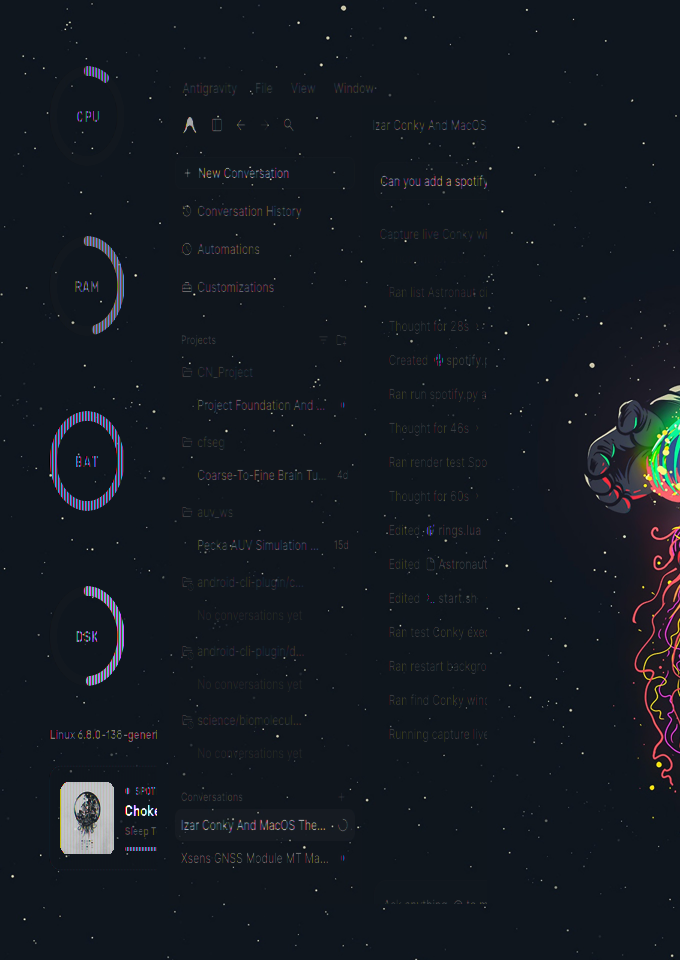
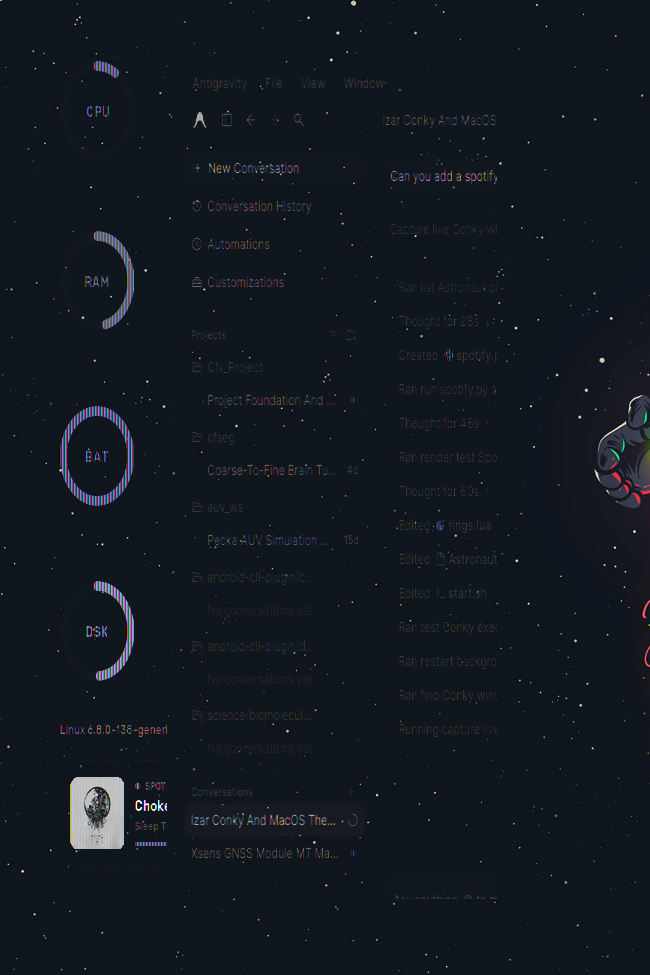
docs: replace preview images with high-resolution captures and remove all emojis

diff --git a/README.md b/README.md
@@ -1,4 +1,4 @@
-# 🌌 Astronaut Desktop for Ubuntu (GNOME 42+)
+# Astronaut Desktop for Ubuntu (GNOME 42+)
 
 A sleek, modern, dark aesthetic desktop configuration for Ubuntu featuring a custom subpixel Cairo-rendered Conky suite, a live MPRIS2 Spotify music player card, floating pill top bar, and right-side dock integration.
 
@@ -6,38 +6,38 @@ A sleek, modern, dark aesthetic desktop configuration for Ubuntu featuring a cus
 
 ---
 
-## ✨ Features
+## Features
 
 * **Subpixel Cairo Conky Suite**:
-  * 🕒 **Digital Clock & Calendar**: Retro `Dot Matrix` font with a vertical day of the week column.
-  * 📊 **4 Circular Hardware Rings**: CPU (Orange), RAM (Pink), Battery (Cyan), and Disk (Yellow) with mathematically centered labels.
-  * ⛅ **Weather Telemetry**: Live temperature, weather condition, humidity, and wind speed.
-  * 🌐 **Network Telemetry & Live Graph**: SSID, signal quality %, local IP, upload/download speeds, and an antialiased dual-bandwidth sparkline graph in Cairo.
-  * 🎵 **Spotify Music Player Card**:
+  * **Digital Clock and Calendar**: Retro `Dot Matrix` font with a vertical day of the week column.
+  * **Circular Hardware Rings**: CPU (Orange), RAM (Pink), Battery (Cyan), and Disk (Yellow) with mathematically centered labels.
+  * **Weather Telemetry**: Live temperature, weather condition, humidity, and wind speed.
+  * **Network Telemetry and Live Graph**: SSID, signal quality %, local IP, upload/download speeds, and an antialiased dual-bandwidth sparkline graph in Cairo.
+  * **Spotify Music Player Card**:
     * Direct MPRIS D-Bus bridge (sub-7ms query latency).
-    * Automated album art fetcher & rounded corner thumbnail caching.
-    * Dynamic state-based outline: **Vibrant Blue** when playing, **Subtle Gray** when paused or offline.
+    * Automated album art fetcher and rounded corner thumbnail caching.
+    * Dynamic state-based outline: **Vibrant Blue** (`#29B6F6`) when playing, **Subtle Gray** (`#666666`) when paused or offline.
     * Track title, artist, album, live progress bar, playhead glow, and elapsed/total timestamps.
     * Fallback vector soundwave logo when idle or offline.
-  * 🖥 **Bottom Telemetry Line**: Kernel version, CPU, RAM, Battery, and Disk percentages.
+  * **Bottom Telemetry Line**: Kernel version, CPU, RAM, Battery, and Disk percentages.
 
 * **GNOME Shell Customizations**:
-  * 🏝 **Floating Island Top Bar**: Transparent panel with floating rounded pill islands (`rgba(30, 32, 40, 0.75)` with subtle borders and shadows).
-  * 🚀 **Floating Dock on Right**: Centered floating pill on the right side of the screen with auto-hide/intellihide.
-  * 🛡 **Dock Anti-Clipping Fix**: Custom CSS padding and scrollview adjustments preventing hover highlight clipping on outermost apps.
-  * 🎨 **Theme & Icons**: Orchis-Dark shell theme paired with `Yaru-blue-dark` icon pack.
+  * **Floating Island Top Bar**: Transparent panel with floating rounded pill islands (`rgba(30, 32, 40, 0.75)` with subtle borders and shadows).
+  * **Floating Dock on Right**: Centered floating pill on the right side of the screen with auto-hide/intellihide.
+  * **Dock Anti-Clipping Fix**: Custom CSS padding and scrollview adjustments preventing hover highlight clipping on outermost apps.
+  * **Theme and Icons**: Orchis-Dark shell theme paired with `Yaru-blue-dark` icon pack.
 
 ---
 
-## 📸 Screenshots
+## Screenshots
 
-| Conky & Spotify Zoom | Spotify Dynamic Outline States |
+| Conky and Spotify Zoom | Spotify Dynamic Outline States |
 | :---: | :---: |
 | ![Conky Zoom](previews/conky-preview.png) | ![Spotify States](previews/spotify-states.png) |
 
 ---
 
-## 🚀 Quick Start (1-Command Install)
+## Quick Start (Automated Install)
 
 ### 1. Clone the repository
 ```bash
@@ -51,7 +51,7 @@ cd astronaut-desktop
 ./install.sh
 ```
 
-> [!TIP]
+> [!NOTE]
 > If you only want the Conky widget without changing your system theme or dock:
 > ```bash
 > ./install.sh --conky-only
@@ -59,36 +59,36 @@ cd astronaut-desktop
 
 ---
 
-## 📦 What the Installer Does
+## What the Installer Does
 
 1. **System Dependencies**: Automatically checks and installs `conky-all`, `gnome-shell-extensions`, `dconf-cli`, `playerctl`, `python3-pil`, `curl`, and `jq`.
 2. **Typography**: Installs `Dot Matrix` and `Rubik` fonts into `~/.local/share/fonts/` and refreshes `fc-cache`.
 3. **Conky Suite**: Deploys configurations and Lua scripts to `~/.config/conky/Astronaut/` and registers login autostart (`~/.config/autostart/`).
 4. **Desktop Wallpaper**: Copies `astronaut-jellyfish.jpg` to `~/Pictures/Wallpapers/` and activates it.
-5. **Theme & Shell Styles**: Installs `Orchis-Dark` and applies custom CSS rules for floating island pills and dock padding.
+5. **Theme and Shell Styles**: Installs `Orchis-Dark` and applies custom CSS rules for floating island pills and dock padding.
 6. **GNOME Preferences**: Configures dock position (`RIGHT`), auto-hide, dark preference, and window controls.
 
 ---
 
-## 📁 Repository Structure
+## Repository Structure
 
 ```text
 astronaut-desktop/
-├── conky/                          # Conky configuration & Lua scripts
+├── conky/                          # Conky configuration and Lua scripts
 │   ├── Astronaut.conf             # Main Conky config (geometry, transparency)
 │   ├── lib/
 │   │   └── rings.lua              # Complete Cairo drawing engine
 │   ├── scripts/
-│   │   ├── spotify.py             # MPRIS D-Bus bridge & cover cache
+│   │   ├── spotify.py             # MPRIS D-Bus bridge and cover cache
 │   │   ├── weather.sh             # Weather scraper
 │   │   └── day_vertical.sh        # Day-of-week helper
 │   └── start.sh                   # Detached process launcher
-├── fonts/                          # Typography (Dot Matrix & Rubik)
+├── fonts/                          # Typography (Dot Matrix and Rubik)
 ├── wallpaper/                      # 1080p Astronaut & Jellyfish wallpaper
 ├── theme/                          # Patched Orchis GNOME Shell CSS
 │   └── gnome-shell/
 ├── autostart/                      # XDG Desktop entry for login launch
-├── settings/                       # GNOME & Dash-to-Dock preferences
+├── settings/                       # GNOME and Dash-to-Dock preferences
 │   ├── dash-to-dock.dconf
 │   └── apply-gnome-settings.sh
 ├── previews/                       # Screenshots for documentation
@@ -99,15 +99,15 @@ astronaut-desktop/
 
 ---
 
-## 🛠 Requirements
+## Requirements
 
-* **OS**: Ubuntu 22.04 LTS / 24.04 LTS (or any Linux distribution running GNOME 42+).
-* **Display**: Optimized for 1080p (1920×1080).
+* **Operating System**: Ubuntu 22.04 LTS / 24.04 LTS (or any Linux distribution running GNOME 42+).
+* **Display**: Optimized for 1080p (1920x1080).
 * **Music Player**: Spotify (Snap, Flatpak, or Native Debian package).
 
 ---
 
-## 🧹 Uninstallation
+## Uninstallation
 
 To remove the Conky configuration and optionally reset your dock:
 ```bash
@@ -116,9 +116,9 @@ To remove the Conky configuration and optionally reset your dock:
 
 ---
 
-## 📜 Credits & Acknowledgments
+## Credits and Acknowledgments
 
 * **Conky**: Built on [Conky](https://github.com/brndnmtthws/conky) with Cairo Xlib graphics.
 * **Orchis Theme**: Based on [Orchis-theme](https://github.com/vinceliuice/Orchis-theme) by vinceliuice.
-* **Icons**: `Yaru-blue-dark` by Canonical & Ubuntu Community.
+* **Icons**: `Yaru-blue-dark` by Canonical and Ubuntu Community.
 * **Fonts**: `Dot Matrix` and Google Fonts `Rubik`.
